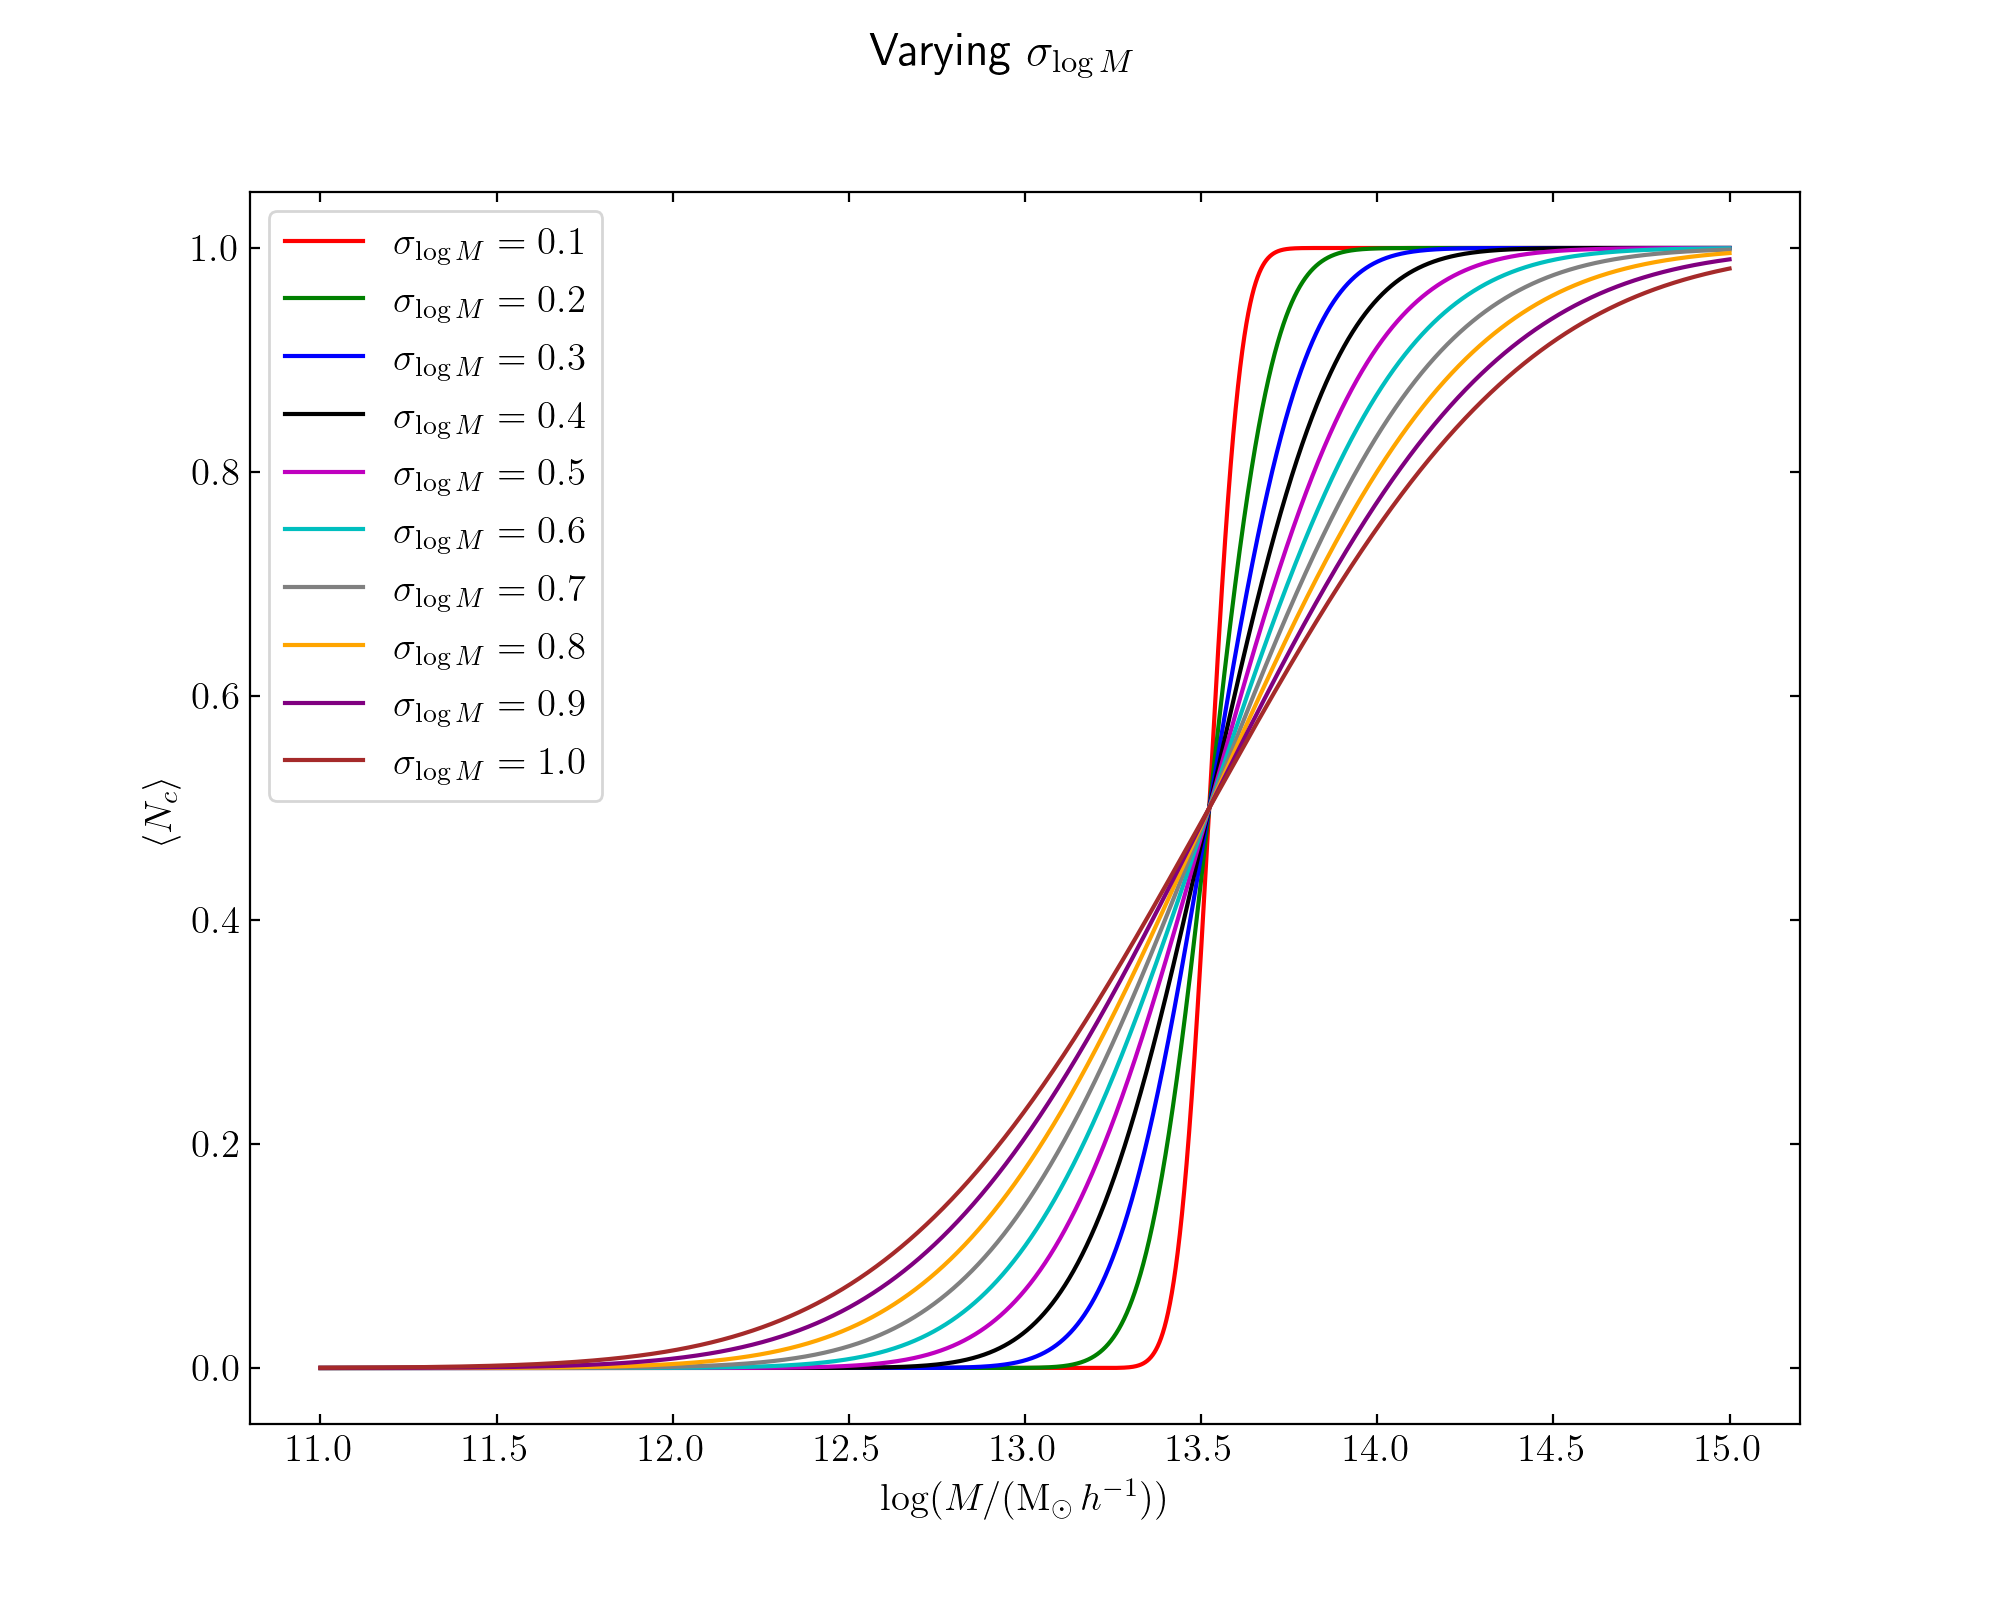
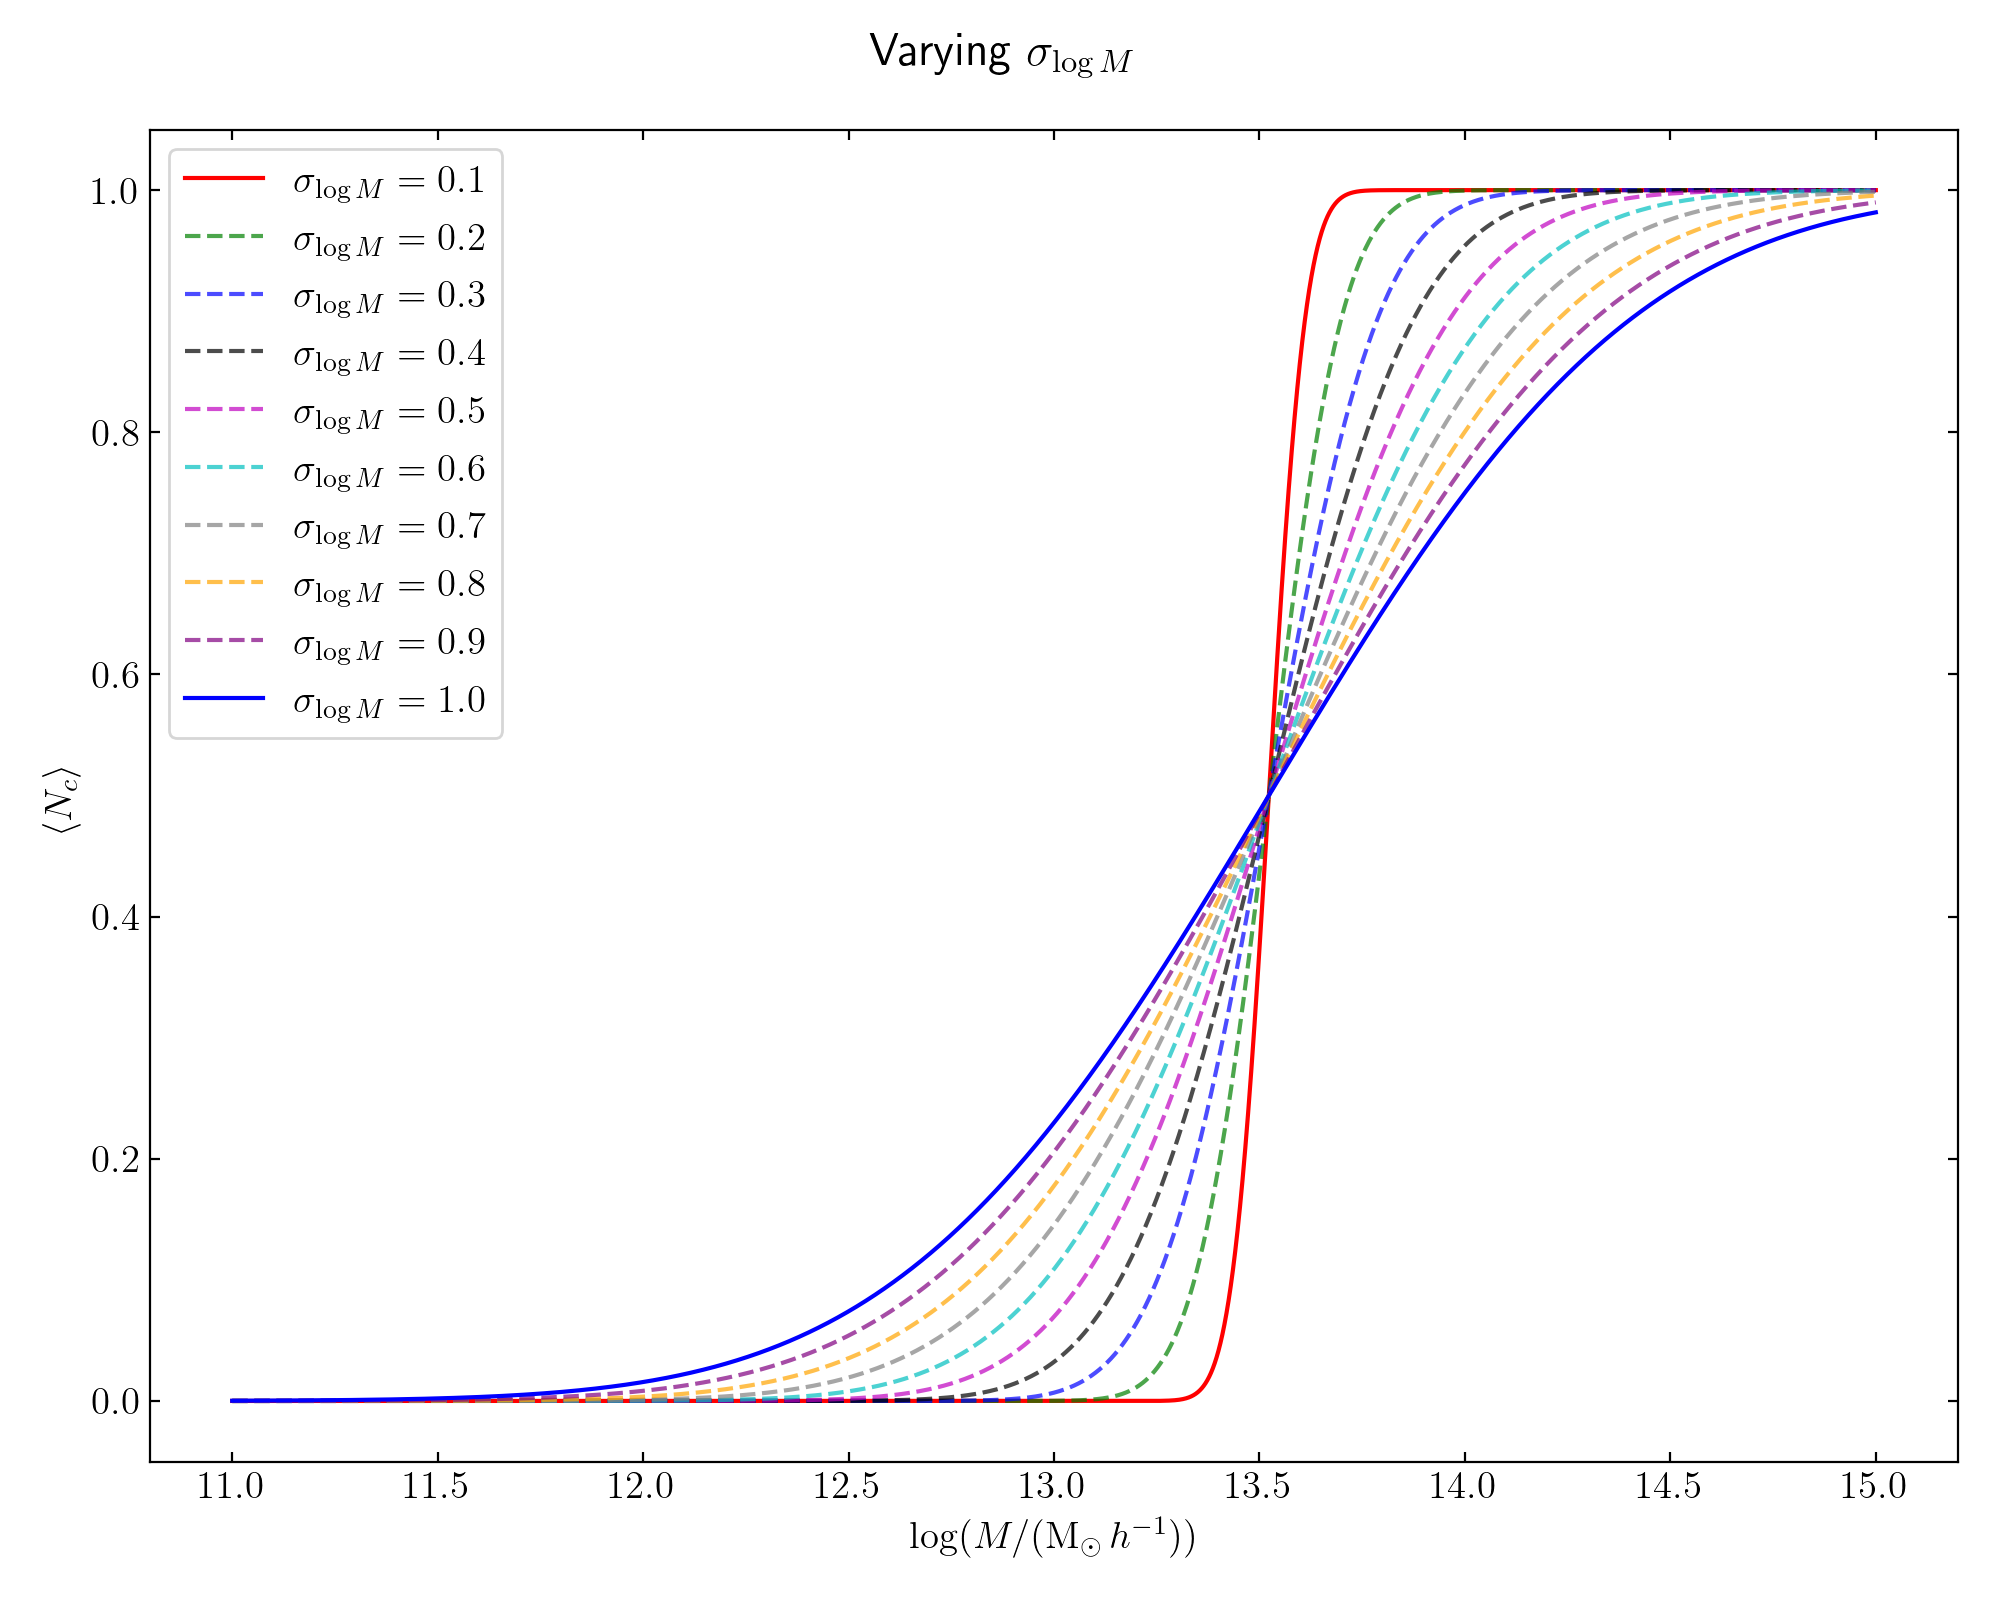
new plots

diff --git a/HaloModel/individual_HOD_parameter_variation/plot_occupation_numbers_varying_single_params.py b/HaloModel/individual_HOD_parameter_variation/plot_occupation_numbers_varying_single_params.py
@@ -14,6 +14,11 @@ params = {'xtick.top': True,
           }
 plt.rcParams.update(params)
 
+
+SAVE = False 
+
+
+
 def N_c(logM, alpha, kappa, sigma_logM, logMmin, logM1):
     erf_term = erf((logM - logMmin)/sigma_logM)
     return 0.5*(1.0 + erf_term)
@@ -52,54 +57,93 @@ def plot_varying_sigma_logM():
     fig, ax = plt.subplots(figsize=(10, 8))
     sigma_logM_array = np.linspace(0.1, 1, 10)
     for i, sigma_logM in enumerate(sigma_logM_array):
+        if i == 0 or i == len(sigma_logM_array)-1:
+            ls = "solid"
+            alpha_ = 1.0 
+        else:
+            ls = "dashed"
+            alpha_ = 0.7 
+        if i == len(sigma_logM_array)-1:
+            color_ = "blue"
+        else:
+            color_ = colors[i]
         nc = N_c(logM, alpha, kappa, sigma_logM, log10_Mmin, log10M1)
-        ax.plot(logM, nc,       color=colors[i], label=rf"$\sigma_{{\log M}}={sigma_logM:.1f}$")
+        ax.plot(logM, nc, ls=ls, alpha=alpha_, color=color_, label=rf"$\sigma_{{\log M}}={sigma_logM:.1f}$")
     fig.suptitle(r"Varying $\sigma_{\log M}$")
-    # ax.set_xlabel(r"$\log M$")
     ax.set_xlabel(XLABEL)
-
     ax.set_ylabel(r"$\langle N_c \rangle$")
     ax.legend(loc="best")
     return fig 
 
 
-def plot_varying_log10_Mmin():
-    fig, axes = plt.subplots(1,2, figsize=(17, 8))
-    ax0 = axes[0]
-    ax1 = axes[1]
+def plot_varying_log10_Mmin_Nc():
+    fig, ax = plt.subplots(figsize=(10, 8))
     log10_Mmin_array = np.linspace(12, 14, 11)
-    # ax0.plot([],[], label=r"$N_c$", color='k')
-    # ax1.plot([],[], '--', label=r"$N_s$", color='k')
     for i, log10_Mmin in enumerate(log10_Mmin_array):
+        if i == 0 or i == len(log10_Mmin_array)-1:
+            ls = "solid"
+            alpha_ = 1.0 
+        else:
+            ls = "dashed"
+            alpha_ = 0.7 
+        if i == len(log10_Mmin_array)-1:
+            color_ = "blue"
+        else:
+            color_ = colors[i]
         nc = N_c(logM, alpha, kappa, sigma_logM, log10_Mmin, log10M1)
+        ax.plot(logM, nc, ls=ls, alpha=alpha_, color=color_, label=rf"$\log_{{10}} M_\mathrm{{min}}={log10_Mmin:.1f}$")
+
+    ax.set_xlabel(XLABEL)
+    ax.set_ylabel(r"$\langle N_c \rangle$")
+    ax.set_title(r"$\langle N_c \rangle$")
+    ax.legend(loc='lower right', fontsize=12)
+    return fig 
+
+def plot_varying_log10_Mmin_Ns():
+    fig, ax = plt.subplots(figsize=(10, 8))
+    log10_Mmin_array = np.linspace(12., 14, 11)
+
+    for i, log10_Mmin in enumerate(log10_Mmin_array):
+        if i == 0 or i == len(log10_Mmin_array)-1:
+            ls = "solid"
+            alpha_ = 1.0 
+        else:
+            ls = "dashed"
+            alpha_ = 0.7 
+        if i == len(log10_Mmin_array)-1:
+            color_ = "blue"
+        else:
+            color_ = colors[i]
+
         ns = N_s(logM, alpha, kappa, sigma_logM, log10_Mmin, log10M1)
-        ax0.plot(logM, nc, color=colors[i], label=rf"$\log_{{10}} M_\mathrm{{min}}={log10_Mmin:.1f}$")
-        ax1.plot(logM, ns, color=colors[i], label=rf"$\log_{{10}} M_\mathrm{{min}}={log10_Mmin:.1f}$")
-        # ls = lambda_sat(logM, alpha, kappa, sigma_logM, log10_Mmin, log10M1)
-        # ax1.plot(logM, ls, '--', color=colors[i], label=rf"$\log_{{10}} M_\mathrm{{min}}={log10_Mmin:.1f}$")
+        ax.plot(logM, ns, ls=ls, alpha=alpha_, color=color_, label=rf"$\log_{{10}} M_\mathrm{{min}}={log10_Mmin:.1f}$")
 
 
-    fig.suptitle(r"Varying $\log_{10} M_\mathrm{min}$")
-    ax0.set_xlabel(XLABEL)
-    ax1.set_xlabel(XLABEL)
-    ax1.set_yscale('log')
-    ax0.set_ylabel(r"$\langle N_c \rangle$")
-    ax1.set_ylabel(r"$\langle N_s \rangle$")
-    ax1.set_ylim(1e-4, 7)
-    ax0.set_title(r"$\langle N_c \rangle$")
-    ax1.set_title(r"$\langle N_s \rangle$")
-    ax10 = ax0.get_xlim()[0]
-    ax0.set_xlim(ax10, 15.5)
-    ax0.legend(loc='lower right', fontsize=12)
-    ax1.legend(loc='upper left')
+    ax.set_xlabel(XLABEL)
+    ax.set_yscale('log')
+    ax.set_ylabel(r"$\langle N_s \rangle$")
+    ax.set_ylim(1e-4, 7)
+    ax.set_title(r"$\langle N_s \rangle$")
+    ax.legend(loc='upper left')
     return fig 
 
 def plot_varying_log10M1():
     fig, ax1 = plt.subplots(figsize=(10, 8))
     log10M1_array = np.linspace(12, 16, 11)
     for i, log10M1 in enumerate(log10M1_array):
+        if i == 0 or i == len(log10M1_array)-1:
+            ls = "solid"
+            alpha_ = 1.0
+        else:
+            ls = "dashed"
+            alpha_ = 0.7
+        if i == len(log10M1_array)-1:
+            color_ = "blue"
+        else:
+            color_ = colors[i]
+
         ns = N_s(logM, alpha, kappa, sigma_logM, log10_Mmin, log10M1)
-        ax1.plot(logM, ns, color=colors[i], label=rf"$\log_{{10}} M_1={log10M1:.1f}$")
+        ax1.plot(logM, ns, ls=ls, alpha=alpha_, color=color_, label=rf"$\log_{{10}} M_1={log10M1:.1f}$")
     fig.suptitle(r"Varying $\log_{10} M_1$")
     ax1.set_xlabel(XLABEL)
     ax1.set_ylabel(r"$\langle N_s \rangle$")
@@ -113,8 +157,19 @@ def plot_varying_kappa():
     fig, ax1 = plt.subplots(figsize=(10, 8))
     kappa_array = np.linspace(0.1, 1.1, 11)
     for i, kappa in enumerate(kappa_array):
+        if i == 0 or i == len(kappa_array)-1:
+            ls = "solid"
+            alpha_ = 1.0
+        else:
+            ls = "dashed"
+            alpha_ = 0.7
+        if i == len(kappa_array)-1:
+            color_ = "blue"
+        else:
+            color_ = colors[i]
+
         ns = N_s(logM, alpha, kappa, sigma_logM, log10_Mmin, log10M1)
-        ax1.plot(logM, ns, color=colors[i], label=rf"$\kappa={kappa:.1f}$")
+        ax1.plot(logM, ns, ls=ls, alpha=alpha_, color=color_, label=rf"$\kappa={kappa:.1f}$")
     fig.suptitle(r"Varying $\kappa$")
     ax1.set_xlabel(XLABEL)
     ax1.set_ylabel(r"$\langle N_s \rangle$")
@@ -129,8 +184,19 @@ def plot_varying_alpha():
     fig, ax1 = plt.subplots(figsize=(10, 8))
     alpha_array = np.linspace(0.1, 1.1, 11)
     for i, alpha in enumerate(alpha_array):
+        if i == 0 or i == len(alpha_array)-1:
+            ls = "solid"
+            alpha_ = 1.0
+        else:
+            ls = "dashed"
+            alpha_ = 0.7
+        if i == len(alpha_array)-1:
+            color_ = "blue"
+        else:
+            color_ = colors[i]
+
         ns = N_s(logM, alpha, kappa, sigma_logM, log10_Mmin, log10M1)
-        ax1.plot(logM, ns, color=colors[i], label=rf"$\alpha={alpha:.1f}$")
+        ax1.plot(logM, ns, ls=ls, alpha=alpha_, color=color_, label=rf"$\alpha={alpha:.1f}$")
     fig.suptitle(r"Varying $\alpha$")
     ax1.set_xlabel(XLABEL)
     ax1.set_ylabel(r"$\langle N_s \rangle$")
@@ -139,27 +205,42 @@ def plot_varying_alpha():
     ax1.set_xlim(13,15.1)
     ax1.legend(loc='lower right')
     return fig 
-SAVE = False 
 
 def plot_sigma_logM(save=SAVE):
     sigma_logM = plot_varying_sigma_logM()
     if save:
         title = Path(f"./plots/occ_varying_sigma_logM.png")
         print(f"Saving to {title}")
+        sigma_logM.tight_layout()
         sigma_logM.savefig(title, dpi=200)
         sigma_logM.clf()
     else:
         plt.show()
+        plt.close()
+
     
-def plot_logMmin(save=SAVE):
-    logMmin = plot_varying_log10_Mmin()
+def plot_logMmin_Nc(save=SAVE):
+    logMmin = plot_varying_log10_Mmin_Nc()
     if save:
-        title = Path(f"./plots/occ_varying_logMmin.png")
+        title = Path(f"./plots/occ_varying_logMmin_Nc.png")
         print(f"Saving to {title}")
         logMmin.savefig(title, dpi=200)
         logMmin.clf()
     else:
         plt.show()
+        plt.close()
+
+def plot_logMmin_Ns(save=SAVE):
+    logMmin = plot_varying_log10_Mmin_Ns()
+    if save:
+        title = Path(f"./plots/occ_varying_logMmin_Ns.png")
+        print(f"Saving to {title}")
+        logMmin.savefig(title, dpi=200)
+        logMmin.clf()
+    else:
+        plt.show()
+        plt.close()
+
 
 def plot_logM1(save=SAVE):
     logM1 = plot_varying_log10M1()
@@ -170,6 +251,8 @@ def plot_logM1(save=SAVE):
         logM1.clf()
     else:
         plt.show()
+        plt.close()
+
 
 def plot_kappa(save=SAVE):
     kappa = plot_varying_kappa()
@@ -180,6 +263,8 @@ def plot_kappa(save=SAVE):
         kappa.clf()
     else:
         plt.show()
+        plt.close()
+
 
 def plot_alpha(save=SAVE):
     alpha = plot_varying_alpha()
@@ -190,14 +275,17 @@ def plot_alpha(save=SAVE):
         alpha.clf()
     else:
         plt.show()
+        plt.close()
+
 
 
 
 def plotall(save=False):
     plot_sigma_logM(save=save)
-    plot_logMmin(save=save)
+    plot_logMmin_Nc(save=save)
+    plot_logMmin_Ns(save=save)
     plot_logM1(save=save)
     plot_kappa(save=save)
     plot_alpha(save=save)
-# plotall(save=True)
-plotall(save=False)
+plotall(save=True)
+# plotall(save=False)
